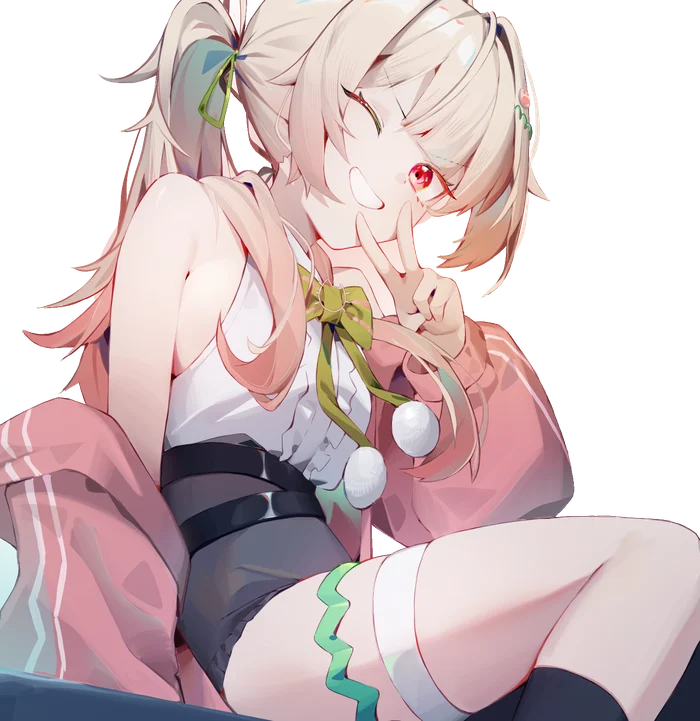
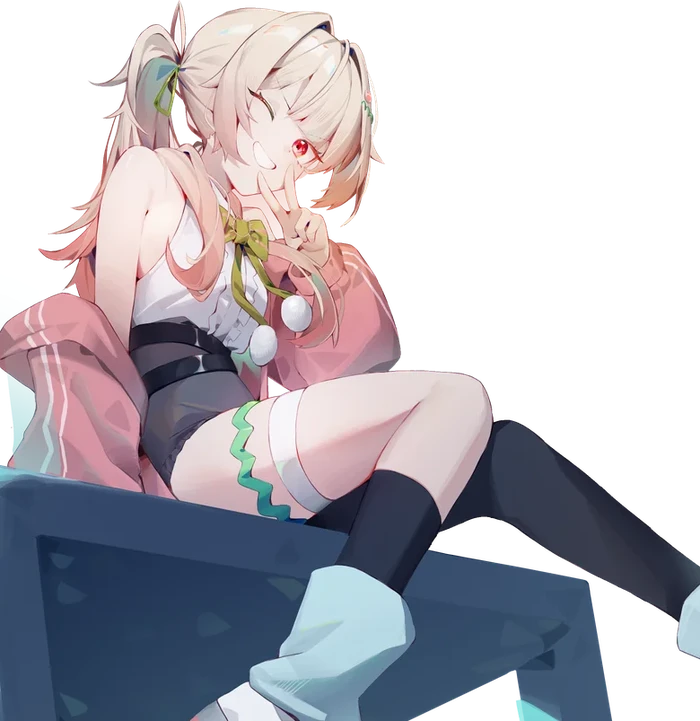
KotoRiyo: wider Look 1 half-body, add Look 2 half-body zoom
Claude-Session: https://claude.ai/code/session_0182ETGqkY6VZC2ACV9rE9Mb

diff --git a/index.html b/index.html
@@ -965,7 +965,7 @@ var TALENTS = [
   { id:'justpark', name:['Justpark Channel (จีน)','Justpark Channel (Jeen)'], short:'Justpark', ini:'JP', type:'KOL', aff:{name:'GaconX', logo:'logos/gaconx-mark.png'}, langs:['th'], color:'#FFFFFF', img:'talent-justpark.jpg', face:'talent-justpark-face.jpg?v=12', tags:['#Gaming'], works:['review'], links:[['YouTube',591000,'https://www.youtube.com/@justparkchannel1419'],['TikTok',13600,'https://www.tiktok.com/@justparkchannel'],['Facebook',34000,'https://www.facebook.com/JeenJustpark'],['Instagram',314,'https://www.instagram.com/justpark_channel/']], quote:['ช่องรีวิวเกมที่ลงคลิปทุกวัน...... ที่ทำเสร็จ','A game review channel with a new clip every day...... that gets finished.'] },
   { id:'pekorin', img:'talent-pekorin.webp', face:'talent-pekorin-face.webp?v=12', halves:['talent-pekorin-half.webp'], card:'talent-pekorin-half.webp', name:'PekorinSSR', short:'Pekorin', ini:'PK', type:'VTuber', aff:'indie', langs:['th'], color:'#F3E9FB', tags:['#Gaming','#Cosplay','#Review','#IRL','#JustChatting'], works:['review','promo','dub','collab','cover','tiein'], links:[['YouTube',22800,'https://www.youtube.com/@pekorin_ssr'],['TikTok',60000,'https://www.tiktok.com/@pekorinssr'],['Facebook',40200,'https://www.facebook.com/PekorinSSR']], quote:['VTuber เสียงแจ๋ว ป่วน เกรียน แต่ก็น่ารัก พูดเก่ง รีวิวได้ หัวไว รักงาน รักเงิน รักทุกคน','A VTuber with a bright voice: chaotic, cheeky and still adorable. A great talker who can review, thinks fast, and loves work, money and everyone.'] },
   { id:'era', img:'talent-era.webp', face:'talent-era-face.webp?v=13', halves:['talent-era-half.webp'], card:'talent-era-half.webp', name:'Era', short:'Era', ini:'ER', type:'VTuber', aff:{name:'Algorhythm Project', logo:'logos/algorhythm.png'}, langs:['th','en','jp'], color:'#E6F4E4', tags:['#Talking','#Horror'], works:['promo','review','dub','collab','cover'], note:['รีวิวได้ทุกประเภท · ไม่รับงานแนวล่อแหลม','Reviews any category · No suggestive content'], links:[['YouTube',23400,'https://www.youtube.com/@Era_ARP'],['TikTok',10500,'https://www.tiktok.com/@era_arp'],['Instagram',6200,'https://www.instagram.com/era.the.first/']], quote:['VTuber สายสดใส คุยเก่งเป็นที่หนึ่ง เมาท์ได้ตั้งแต่สากกะเบือยันเรือรบแบบ nonstop! ร้องเพลงก็ได้ รีวิวก็เก่ง ไอเดียก็มี พร้อมเสิร์ฟความสนุกและรอยยิ้มในทุกงานและทุกคนแล้วค่ะ!','A bright, bubbly VTuber and a champion talker who can chat about anything under the sun, nonstop! She sings, reviews like a pro and is full of ideas, ready to bring fun and smiles to every project and everyone!'] },
-  { id:'kotoriyo', img:'talent-kotoriyo-sit.webp', face:'talent-kotoriyo-face.webp?v=12', forms:['talent-kotoriyo-sit.webp','talent-kotoriyo.webp','talent-kotoriyo-chibi1.webp','talent-kotoriyo-chibi2.webp'], halves:['talent-kotoriyo-half.webp?v=2','talent-kotoriyo.webp','talent-kotoriyo-chibi1.webp','talent-kotoriyo-chibi2.webp'], flat:[false,true,true,true], formNames:[['ร่าง 1','Look 1'],['ร่าง 2','Look 2'],['Chibi 1','Chibi 1'],['Chibi 2','Chibi 2']], card:'talent-kotoriyo-half.webp?v=2', name:'KotoRiyo', short:'KotoRiyo', ini:'KR', type:'VTuber', aff:'indie', langs:['th'], color:'#FBE8EE', tags:['#Singing','#FreeTalk'], works:['promo','dub','collab','cover'], links:[['YouTube',8467,'https://www.youtube.com/@kotoriyo.official'],['TikTok',5023,'https://www.tiktok.com/@kotoriyo_'],['Facebook',2800,'https://www.facebook.com/profile.php?id=61578431919963'],['Instagram',1500,'https://www.instagram.com/kotoriyo.official/'],['X',2375,'https://x.com/kotoriyo_']], quote:['สาวน้อยที่ตลกไม่พัก แต่ความน่ารักให้เป็นที่ 1 (･ω･) 🩷','A girl who never stops being funny, but cuteness always comes first (･ω･) 🩷'] },
+  { id:'kotoriyo', img:'talent-kotoriyo-sit.webp', face:'talent-kotoriyo-face.webp?v=12', forms:['talent-kotoriyo-sit.webp','talent-kotoriyo.webp','talent-kotoriyo-chibi1.webp','talent-kotoriyo-chibi2.webp'], halves:['talent-kotoriyo-half.webp?v=3','talent-kotoriyo-half2.webp','talent-kotoriyo-chibi1.webp','talent-kotoriyo-chibi2.webp'], flat:[false,false,true,true], formNames:[['ร่าง 1','Look 1'],['ร่าง 2','Look 2'],['Chibi 1','Chibi 1'],['Chibi 2','Chibi 2']], card:'talent-kotoriyo-half.webp?v=3', name:'KotoRiyo', short:'KotoRiyo', ini:'KR', type:'VTuber', aff:'indie', langs:['th'], color:'#FBE8EE', tags:['#Singing','#FreeTalk'], works:['promo','dub','collab','cover'], links:[['YouTube',8467,'https://www.youtube.com/@kotoriyo.official'],['TikTok',5023,'https://www.tiktok.com/@kotoriyo_'],['Facebook',2800,'https://www.facebook.com/profile.php?id=61578431919963'],['Instagram',1500,'https://www.instagram.com/kotoriyo.official/'],['X',2375,'https://x.com/kotoriyo_']], quote:['สาวน้อยที่ตลกไม่พัก แต่ความน่ารักให้เป็นที่ 1 (･ω･) 🩷','A girl who never stops being funny, but cuteness always comes first (･ω･) 🩷'] },
   { id:'zona', halves:['talent-zona-half.webp?v=2'], card:'talent-zona-half.webp?v=2', img:'talent-zona.webp', face:'talent-zona-face.webp?v=13',  name:'ZONA', short:'ZONA', ini:'ZN', type:'VTuber', aff:{name:'Polygon', logo:'logos/polygon-mark.png'}, langs:['th','en','jp'], color:'#CFE6FF', tags:['#Singing','#FreeTalk','#Gaming'], works:['promo','review','cover','collab','dub'], links:[['YouTube',172662,'https://www.youtube.com/c/ZonaCh'],['TikTok',63715,'https://www.tiktok.com/@zonaplg'],['Facebook',35123,'https://www.facebook.com/ZONAPolygon'],['X',53983,'http://twitter.com/ZonaPLG']], quote:['โซน่า ออก้าแห่งท้องทะเลผู้รักในเสียงเพลงและเท่(ซน)มาก','Zona, the music-loving orca of the sea. Super cool (and super cheeky).'] },
   { id:'hoku', halves:['talent-hoku-half.webp'], card:'talent-hoku-half.webp', img:'talent-hoku.webp?v=3', face:'talent-hoku-face.webp?v=13',  name:'Hoku', short:'Hoku', ini:'HK', type:'VTuber', aff:{name:'Polygon', logo:'logos/polygon-mark.png'}, langs:['th','en'], color:'#E9DFC8', tags:['#Singing','#FreeTalk','#Gaming','#Horror'], works:['promo','review','cover','collab','dub'], links:[['YouTube',119655,'https://www.youtube.com/@HokuPLG'],['TikTok',35000,'https://www.tiktok.com/@hokuplg'],['Facebook',23440,'http://facebook.com/HokuPolygon'],['X',32083,'http://twitter.com/HokuPLG']], quote:['โฮคุ นกฮูกเปี่ยมไมตรีที่ชอบเรื่องผีและหาทำ','Hoku, a friendly owl who loves ghost stories and always finds something to get into.'] },
   { id:'lucene', halves:['talent-lucene-half.webp'], card:'talent-lucene-half.webp', img:'talent-lucene.webp', face:'talent-lucene-face.webp?v=12',  name:'Lucene', short:'Lucene', ini:'LC', type:'VTuber', aff:{name:'Polygon', logo:'logos/polygon-mark.png'}, langs:['th','en'], color:'#FDE2EE', tags:['#Singing','#FreeTalk','#Gaming','#Gacha'], works:['promo','review','cover','collab','dub'], links:[['YouTube',83400,'https://www.youtube.com/@LucenePLG'],['TikTok',24071,'https://www.tiktok.com/@plglucene'],['Facebook',20102,'https://www.facebook.com/LucenePolygon'],['X',19508,'https://x.com/LucenePLG']], quote:['ลูเซเน่ กระต่ายอนิเมะผู้เสกความสดใสและชอบเสี่ยงดวง💸','Lucene, an anime bunny who conjures up cheer and loves to try her luck 💸'] },
